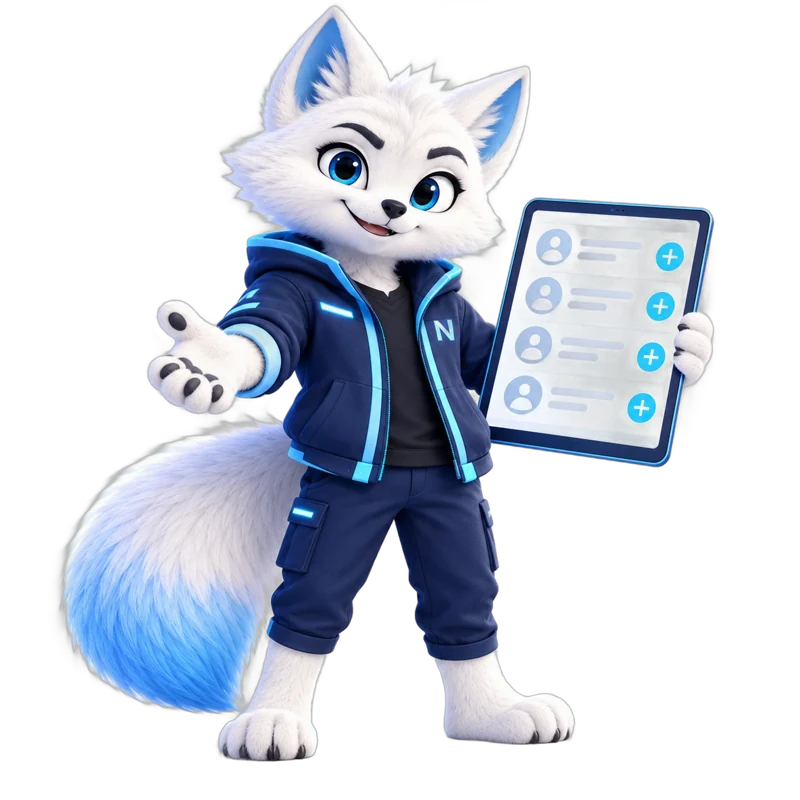
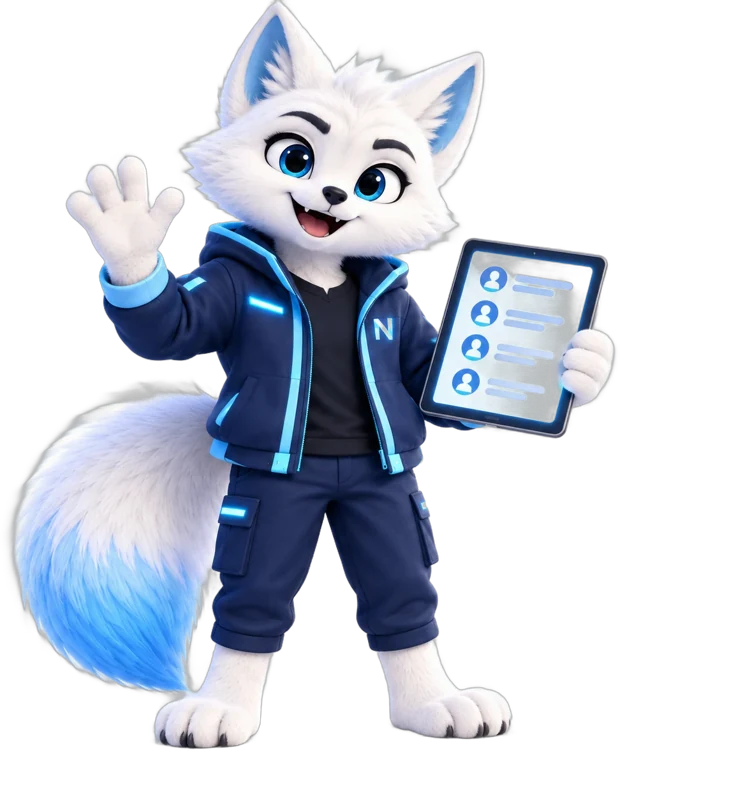
Play, Acervo, Design e Builder conforme capturas 16-19; mascote de Clientes
Claude-Session: https://claude.ai/code/session_0175EqgD9fGaqMxXcFMTC2sN

diff --git a/public/js/pages/library.js b/public/js/pages/library.js
@@ -1,5 +1,5 @@
 import { api } from '../api.js';
-import { h, mount, modal, confirmBox, fieldEl, readForm, toast, fail, debounce, copyText, downloadFile, pills, hero, statCard } from '../ui.js';
+import { h, mount, modal, confirmBox, fieldEl, readForm, toast, fail, debounce, copyText, downloadFile, pills, hero, statCard, icon } from '../ui.js';
 
 const KIND = { prompt: ['Prompt Lab', 'Prompts prontos para usar'], skill: ['Skill Vault', 'Métodos e instalação'], animation: ['Animações', 'Movimento para sites'], design: ['Design', 'Referências'] };
 const EXT = { prompt: 'txt', skill: 'md', animation: 'html', design: 'md' };
@@ -31,20 +31,29 @@ export const design = {
   async render(box, ctx) {
     const isAdmin = ctx.user.role === 'admin';
     const st = { q: '', niche: '', style: '', site_type: '', sort: 'title' };
-    const grid = h('div', { class: 'cards' }); const count = h('span', { class: 'sm mut' }); const filtersBox = h('div', { class: 'grid g3' });
-    const sel = (key, label, opts) => h('label', { class: 'field' }, h('span', label), h('select', { onchange: (e) => { st[key] = e.target.value; load(); } }, h('option', { value: '' }, 'Todos'), opts.map((o) => h('option', { value: o, selected: st[key] === o }, o))));
+    const grid = h('div', { class: 'cards' }); const count = h('b'); const filtersBox = h('div', { class: 'dfilters' }); const shortcuts = h('div', { class: 'shortcuts' });
+    let meta = { niches: [], styles: [], siteTypes: [] };
+    const sel = (key, label, ic, opts) => h('label', { class: 'dfield' }, icon(ic), h('span', label), h('select', { 'aria-label': label, onchange: (e) => { st[key] = e.target.value; load(); } }, h('option', { value: '' }, 'Todos'), opts.map((o) => h('option', { value: o, selected: st[key] === o }, o))));
+    function drawShortcuts() {
+      const quick = meta.niches.slice(0, 6);
+      mount(shortcuts, h('span', { class: 'k' }, 'Atalhos'), pills({ items: [['', 'Tudo'], ...quick.map((n) => [n, n])], value: st.niche, onChange: (v) => { st.niche = v; load(); } }),
+        h('button', { class: 'btn ghost sm', style: 'margin-left:auto', onclick: () => { Object.assign(st, { q: '', niche: '', style: '', site_type: '' }); design.render(box, ctx); } }, '✕ Limpar filtros'));
+    }
     async function load() {
-      const meta = await api.get('/library/meta', { kind: 'design' });
-      mount(filtersBox, sel('niche', 'Nicho', meta.niches), sel('style', 'Estilo visual', meta.styles), sel('site_type', 'Tipo de site', meta.siteTypes));
+      meta = await api.get('/library/meta', { kind: 'design' });
+      mount(filtersBox, sel('niche', 'Nicho', 'building', meta.niches), sel('style', 'Estilo visual', 'palette', meta.styles), sel('site_type', 'Tipo de site', 'layout', meta.siteTypes));
+      drawShortcuts();
       const { items } = await api.get('/library', { kind: 'design', q: st.q, niche: st.niche, style: st.style, site_type: st.site_type, sort: st.sort, all: isAdmin ? 1 : '' }); count.textContent = `${items.length} referência(s)`;
       mount(grid, items.length ? items.map((it) => h('article', { class: 'card refcard' + (it.locked ? ' lock' : ''), tabindex: 0, onclick: () => (it.locked ? toast('Recurso de um plano superior.', 'err') : openItem(it, ctx, load).catch(fail)) },
         h('div', { class: 'swatch' }, it.title), h('div', { class: 'row' }, it.niche && h('span', { class: 'badge' }, it.niche), it.style && h('span', { class: 'badge' }, it.style), it.locked && h('span', { class: 'badge warn' }, '🔒 plano superior'), !it.published && h('span', { class: 'badge warn' }, 'rascunho')),
-        h('p', { class: 'sm mut', style: 'margin:0' }, it.summary || ''))) : h('div', { class: 'card empty', style: 'grid-column:1/-1' }, h('b', 'Nenhuma referência encontrada'), isAdmin ? 'Cadastre referências com DESIGN.md em "+ Nova referência".' : 'Peça a um administrador para cadastrar referências.'));
+        h('p', { class: 'sm mut', style: 'margin:0' }, it.summary || ''))) : h('div', { class: 'emptyart dashed', style: 'grid-column:1/-1' }, h('span', { class: 'eico' }, icon('palette')), h('b', 'Nenhuma referência encontrada'), isAdmin ? 'Cadastre referências com DESIGN.md em "+ Nova referência".' : 'Peça a um administrador para cadastrar referências.'));
     }
-    mount(box, hero({ kicker: 'Neva Growth / Design', title: 'Identidades reais. DESIGN.md prontos.', subtitle: 'Explore referências, copie ou baixe o DESIGN.md e use como contexto no Builder e na IDE.',
+    const sortSel = h('select', { 'aria-label': 'Ordenar', style: 'width:auto', onchange: (e) => { st.sort = e.target.value; load(); } }, [['title', 'Nome: A → Z'], ['recent', 'Mais recentes']].map(([v, l]) => h('option', { value: v }, l)));
+    mount(box, hero({ kicker: 'Design Neva / Referências', title: 'Identidades reais. DESIGN.md prontos.', art: 'design', subtitle: 'Explore sites do mundo todo, encontre sua próxima referência e leve o DESIGN.md completo para o seu projeto.',
       actions: [isAdmin && h('button', { class: 'btn', onclick: () => itemForm(null, load, 'design') }, '+ Nova referência')] }),
-      h('div', { class: 'card pad stack' }, h('div', { class: 'row', style: 'justify-content:space-between' }, h('input', { type: 'search', style: 'max-width:380px', placeholder: 'Buscar referência, estilo ou categoria', 'aria-label': 'Buscar', oninput: debounce((e) => { st.q = e.target.value; load(); }) }), count), filtersBox,
-        h('button', { class: 'btn ghost sm', style: 'align-self:flex-start', onclick: () => { Object.assign(st, { q: '', niche: '', style: '', site_type: '' }); design.render(box, ctx); } }, 'Limpar filtros')), h('div', { style: 'height:14px' }), grid);
+      h('div', { class: 'dhead' }, h('span', { class: 'k' }, h('i', '/'), ' Explore por design'), h('div', { class: 'row' }, count, sortSel)),
+      h('div', { class: 'card pad stack' }, h('div', { class: 'ksearch', style: 'max-width:420px' }, icon('search'), h('input', { type: 'search', placeholder: 'Buscar referência, estilo ou categoria', 'aria-label': 'Buscar', oninput: debounce((e) => { st.q = e.target.value; load(); }) })), filtersBox, shortcuts),
+      h('div', { style: 'height:14px' }), grid);
     await load();
   }
 };
@@ -57,6 +66,7 @@ export const acervo = {
     async function load() {
       const meta = await api.get('/library/meta', { kind });
       const { items } = await api.get('/library', { kind, q: st.q, category: st.category, all: isAdmin ? 1 : '' });
+      total = items.filter((x) => x.published).length; try { drawHero(); } catch { /* ainda não montado */ } const c2 = document.getElementById('cnt2'); if (c2) c2.textContent = String(items.length).padStart(2, '0');
       mount(toolbar, h('div', { class: 'row' }, h('input', { type: 'search', style: 'max-width:340px', placeholder: 'Buscar por objetivo, área ou palavra-chave', 'aria-label': 'Buscar', value: st.q, oninput: debounce((e) => { st.q = e.target.value; load(); }) }),
         pills({ items: [['', 'Todos'], ...meta.categories.map((c) => [c, c])], value: st.category, onChange: (v) => { st.category = v; load(); } }), h('span', { class: 'sm mut' }, `${items.length} encontrado(s)`)));
       mount(listBox, items.length ? items.map((it, i) => h('button', { class: 'libitem' + (selected === it.id ? ' on' : '') + (it.locked ? ' lock' : ''), onclick: () => show(it) }, h('div', { class: 'sm mut' }, `${String(i + 1).padStart(2, '0')} · ${it.category || KIND[kind][0]}${it.locked ? ' · 🔒' : ''}${it.published ? '' : ' · rascunho'}`), h('div', { class: 't' }, it.title)))
@@ -72,11 +82,16 @@ export const acervo = {
           h('div', { class: 'row' }, h('button', { class: 'btn', onclick: () => copyText(full.content, 'Copiado.') }, 'Copiar'), h('button', { class: 'btn ghost', onclick: () => downloadFile(`${slug(full.title)}.${EXT[full.kind]}`, full.content) }, 'Baixar'), isAdmin && h('button', { class: 'btn ghost', onclick: () => itemForm(full, load) }, 'Editar'))));
       } catch (e) { mount(detail, h('div', { class: 'empty' }, e.message)); }
     }
-    const drawTabs = () => mount(tabs, h('div', { class: 'tabs' }, ['prompt', 'skill', 'animation'].map((k) => h('button', { class: kind === k ? 'on' : '', onclick: () => { kind = k; selected = null; st.category = ''; drawTabs(); load(); } }, KIND[k][0], h('span', { class: 'sm mut' }, ' · ' + KIND[k][1])))));
+    const TITLES = { prompt: ['Prompts para sair do rascunho.', 'Escolha um prompt completo, copie ou baixe e ajuste os detalhes no seu próprio chat.'], skill: ['Métodos prontos para instalar.', 'Guias e skills para repetir bons resultados com a sua IA, sem começar do zero.'], animation: ['Movimento para sites.', 'Animações em HTML e CSS para copiar, ajustar e colocar nos seus projetos.'] };
+    const heroBox = h('div'); let total = 0;
+    const drawHero = () => mount(heroBox, hero({ kicker: `Neva Growth / ${KIND[kind][0]}`, title: TITLES[kind][0], art: 'acervo', subtitle: TITLES[kind][1],
+      stats: h('div', { class: 'chips3' }, h('span', { class: 'chipk' }, icon('box'), `${total} recurso(s) publicado(s)`), h('span', { class: 'chipk' }, icon('check'), 'Texto completo'), h('span', { class: 'chipk' }, icon('refresh'), 'Sincronizado')),
+      actions: [isAdmin && h('button', { class: 'btn', onclick: () => itemForm(null, load, kind) }, '+ Novo recurso')] }));
+    const drawTabs = () => mount(tabs, h('div', { class: 'card acervobar' }, h('span', { class: 'ex' }, 'ACERVO NEVA'), h('div', { class: 'atabs' }, ['prompt', 'skill', 'animation'].map((k) => h('button', { class: kind === k ? 'on' : '', onclick: () => { kind = k; selected = null; st.category = ''; drawTabs(); load(); } }, h('b', KIND[k][0]), h('small', KIND[k][1])))),
+      h('a', { class: 'btn', href: '#/prompts' }, '✦ Gerar com IA')));
     drawTabs();
-    mount(box, hero({ kicker: 'Neva Growth / Acervo', title: 'Prompts para sair do rascunho.', subtitle: 'Escolha um recurso completo, copie ou baixe e ajuste no seu próprio chat. Para criar com IA, use o Gerador de prompts.',
-      actions: [h('a', { class: 'btn ghost', href: '#/prompts' }, '✦ Gerador de prompts'), isAdmin && h('button', { class: 'btn', onclick: () => itemForm(null, load, kind) }, '+ Novo recurso')] }),
-      tabs, h('div', { class: 'card pad stack', style: 'margin-bottom:14px' }, toolbar), h('div', { class: 'lib' }, h('div', { class: 'card', style: 'overflow:hidden' }, h('div', { class: 'pad', style: 'padding-bottom:6px' }, h('b', 'Explore')), listBox), h('div', { class: 'card' }, detail)));
+    mount(box, tabs, heroBox, h('div', { class: 'card pad stack', style: 'margin:14px 0' }, toolbar), h('div', { class: 'lib' }, h('div', { class: 'card', style: 'overflow:hidden' }, h('div', { class: 'pad libhead' }, h('div', h('div', { class: 'k' }, 'Neva / Biblioteca'), h('b', { style: 'font-size:1.2rem' }, 'Explore os recursos')), h('span', { class: 'cnt2', id: 'cnt2' }, '00')), listBox), h('div', { class: 'card' }, detail)));
+    drawHero();
     await load();
   }
 };

diff --git a/public/css/app.css b/public/css/app.css
@@ -352,3 +352,40 @@ select.monthsel{width:auto;min-width:110px;border-radius:12px;padding:7px 12px}
 .auth{display:grid;grid-template-columns:auto;grid-auto-flow:column;gap:48px;justify-content:center;align-items:center}
 .auth>.mascot-img{max-width:min(440px,42vw);margin:0}
 @media(max-width:860px){.auth{grid-auto-flow:row;gap:18px}.auth>.mascot-img{max-width:200px}}
+/* play, acervo, design, builder */
+.playband{display:flex;justify-content:space-between;align-items:center;gap:20px;flex-wrap:wrap;padding:20px 24px;margin-top:16px}
+.playband .k,.dhead .k,.libhead .k,.shortcuts .k{font-size:.66rem;letter-spacing:.16em;text-transform:uppercase;color:var(--ice-600);font-weight:700}
+.playband h2{font-size:1.8rem;margin-top:4px}
+.pb-r{display:flex;align-items:center;gap:20px;flex-wrap:wrap}.pb-p{display:flex;align-items:center;gap:12px;min-width:220px}.pb-p b{font-size:1.5rem}.pb-p .progress{flex:1;min-width:90px}
+.vcard .poster{height:130px;border-radius:14px;background:var(--grad);position:relative;display:grid;place-items:center;overflow:hidden;color:#fff}
+.vcard .poster::before{content:"";position:absolute;inset:0;background:repeating-linear-gradient(90deg,rgba(255,255,255,.07) 0 1px,transparent 1px 36px)}
+.vcard .poster b{position:absolute;left:14px;bottom:10px;font-size:.78rem;letter-spacing:.1em;text-transform:uppercase}
+.vcard .pbtn{width:48px;height:48px;border-radius:50%;background:rgba(255,255,255,.2);border:1px solid rgba(255,255,255,.6);display:grid;place-items:center;position:relative}.vcard .pbtn .ico{width:20px;height:20px;fill:#fff}
+.chips3{display:flex;gap:8px;flex-wrap:wrap}.chipk{display:inline-flex;align-items:center;gap:8px;border:1px solid rgba(255,255,255,.35);background:rgba(255,255,255,.12);border-radius:14px;padding:10px 16px;font-size:.85rem}
+.acervobar{display:flex;align-items:center;gap:18px;flex-wrap:wrap;padding:12px 16px;margin:8px 0 14px}
+.acervobar .ex{font-size:.7rem;letter-spacing:.18em;font-weight:700;color:var(--ice-700)}
+.atabs{display:flex;gap:6px;flex:1;flex-wrap:wrap}.atabs button{display:flex;flex-direction:column;align-items:flex-start;gap:0;border:1px solid transparent;background:none;border-radius:14px;padding:8px 16px;cursor:pointer;text-align:left}
+.atabs button small{color:var(--mut);font-size:.72rem}.atabs button.on{background:var(--grad);color:#fff;box-shadow:0 8px 18px rgba(47,123,189,.3)}.atabs button.on small{color:rgba(255,255,255,.85)}
+.libhead{display:flex;justify-content:space-between;align-items:center;border-bottom:1px solid var(--line)}.cnt2{border:1px solid var(--line);border-radius:10px;padding:4px 10px;font-weight:700;background:var(--ice-50)}
+.dhead{display:flex;justify-content:space-between;align-items:center;margin:18px 4px 10px;gap:10px;flex-wrap:wrap}.dhead .k i{font-style:normal;margin-right:6px}
+.dfilters{display:grid;grid-template-columns:repeat(3,minmax(0,1fr));border:1px solid var(--line);border-radius:14px;overflow:hidden}@media(max-width:760px){.dfilters{grid-template-columns:1fr}}
+.dfield{display:flex;align-items:center;gap:10px;padding:10px 16px;border-right:1px solid var(--line);color:var(--mut)}.dfield:last-child{border:0}
+.dfield select{border:0;box-shadow:none!important;padding:6px 4px;background:none;font-weight:600;color:var(--ink)}
+.shortcuts{display:flex;align-items:center;gap:12px;flex-wrap:wrap}
+.bstage{border-radius:28px;padding:22px clamp(16px,3vw,40px) 28px;background:radial-gradient(900px 400px at 50% -10%,#5aa3dc 0%,transparent 70%),linear-gradient(180deg,#1f5c92,#123b60);color:#fff;display:flex;flex-direction:column;gap:14px;align-items:center;position:relative;overflow:hidden}
+.btop{width:100%;display:flex;justify-content:space-between;align-items:center;font-size:.8rem}.btop a{color:#fff;text-decoration:none;opacity:.9}.btop .k{letter-spacing:.14em;text-transform:uppercase;font-weight:700;font-size:.68rem}.btop .k i{font-style:normal;color:#7fe0b0}
+.bstage .mascot-img{max-height:150px;width:auto;max-width:200px;filter:drop-shadow(0 10px 14px rgba(0,0,0,.35));margin:0}
+.bstage h1{color:#fff;font-size:clamp(1.6rem,4vw,2.6rem);text-align:center;letter-spacing:-.02em}
+.bstage .notice{width:100%;max-width:980px}.bstage>.sm{color:rgba(255,255,255,.8)}
+.composer{display:grid;grid-template-columns:minmax(0,1.3fr) minmax(0,1fr);gap:0;width:100%;max-width:1040px;background:#fff;color:var(--ink);border-radius:22px;overflow:hidden;box-shadow:0 24px 60px rgba(0,0,0,.3)}@media(max-width:900px){.composer{grid-template-columns:1fr}}
+.cleft{padding:16px;display:flex;flex-direction:column;gap:10px;border-right:1px solid var(--line);min-width:0}.cleft textarea{border:0;box-shadow:none!important;min-height:150px;font-size:1rem;resize:vertical}
+.cbar{display:flex;gap:8px;align-items:center;flex-wrap:wrap}
+.bicon{width:38px;height:38px;border-radius:12px;border:1px solid var(--line);background:#fff;display:grid;place-items:center;cursor:pointer}.bicon:hover{background:var(--ice-100)}
+.bdetails{border:1px solid var(--line);border-radius:14px;padding:12px;background:var(--ice-50)}
+.cright{padding:16px;background:var(--ice-50);display:flex;flex-direction:column;gap:12px}
+.bmodels{display:grid;grid-template-columns:repeat(2,minmax(0,1fr));gap:10px}
+.bmodel{border:2px solid transparent;border-radius:14px;padding:0;background:#fff;cursor:pointer;overflow:hidden;text-align:left;box-shadow:var(--shadow)}.bmodel.on{border-color:var(--ice-600)}
+.bmodel .th{height:78px;background:linear-gradient(135deg,var(--ice-100),var(--ice-400));position:relative}.bmodel .th i{position:absolute;left:10px;height:7px;border-radius:4px;background:rgba(255,255,255,.9)}
+.bmodel span{display:block;padding:8px 10px;font-weight:600;font-size:.82rem}
+.bpager{display:flex;justify-content:space-between;align-items:center}
+.btn.ghost[disabled],.iconbtn[disabled]{opacity:.4}

diff --git a/public/js/pages/play.js b/public/js/pages/play.js
@@ -1,5 +1,5 @@
 import { api } from '../api.js';
-import { h, mount, modal, confirmBox, fieldEl, readForm, toast, fail, hero, statCard, pills } from '../ui.js';
+import { h, mount, modal, confirmBox, fieldEl, readForm, toast, fail, hero, statCard, pills, icon } from '../ui.js';
 
 export function embedUrl(url) {
   try {
@@ -14,15 +14,17 @@ export function embedUrl(url) {
 export default {
   async render(box, ctx) {
     const isAdmin = ctx.user.role === 'admin'; let cat = '';
-    const grid = h('div', { class: 'cards' }); const statsBox = h('div', { class: 'hero-stats' }); const bar = h('div');
+    const grid = h('div', { class: 'cards playgrid', id: 'playgrid' }); const statsBox = h('div', { class: 'hero-stats' }); const bar = h('div'); const band = h('section', { class: 'card playband' });
     let data;
     async function load() { data = await api.get('/play', { all: isAdmin ? 1 : '' }); draw(); }
     function draw() {
       const s = data.stats;
-      mount(statsBox, statCard('Conteúdos vistos', `${s.percent}%`, `${s.seen} de ${s.total} conteúdo(s)`), h('div', { class: 'stat' }, h('small', 'Progresso'), h('div', { class: 'progress', style: 'margin-top:8px' }, h('i', { style: `width:${s.percent}%` }))));
+      mount(statsBox, h('div', { class: 'stat' }, h('span', { class: 'sico' }, icon('play')), h('div', { class: 'sbody', style: 'min-width:220px' }, h('small', 'Conteúdos vistos'), h('b', `${s.percent}%`), h('div', { class: 'progress', style: 'margin:6px 0 4px' }, h('i', { style: `width:${s.percent}%` })), h('span', { class: 'shint' }, `${s.seen} de ${s.total} conteúdo(s) visto(s)`))));
+      mount(band, h('div', { class: 'pb-l' }, h('div', { class: 'k' }, 'Conteúdo para explorar'), h('h2', 'Entre no Play.'), h('p', { class: 'sm mut', style: 'margin:4px 0 0' }, 'Crie melhor, venda com clareza e tome decisões mais inteligentes.')),
+        h('div', { class: 'pb-r' }, h('div', { class: 'pb-p' }, h('b', `${s.percent}%`), h('div', { class: 'progress' }, h('i', { style: `width:${s.percent}%` })), h('small', { class: 'mut' }, `${s.seen} de ${s.total} conteúdo(s)`)), h('button', { class: 'btn', onclick: () => document.getElementById('playgrid')?.scrollIntoView({ behavior: 'smooth' }) }, 'Explorar conteúdos →')));
       mount(bar, pills({ items: [['', 'Todos'], ...data.categories.map((c) => [c, c])], value: cat, onChange: (v) => { cat = v; draw(); } }));
       const items = data.items.filter((i) => !cat || i.category === cat);
-      mount(grid, items.length ? items.map((i) => h('article', { class: 'card pad stack' }, h('div', { class: 'row' }, i.category && h('span', { class: 'badge' }, i.category), i.seen ? h('span', { class: 'badge ok' }, '✓ visto') : null, !i.published && h('span', { class: 'badge warn' }, 'rascunho')),
+      mount(grid, items.length ? items.map((i) => h('article', { class: 'card pad stack vcard' }, h('div', { class: 'poster' }, h('span', { class: 'pbtn' }, icon('play')), h('b', i.category || 'Play')), h('div', { class: 'row' }, i.category && h('span', { class: 'badge' }, i.category), i.seen ? h('span', { class: 'badge ok' }, '✓ visto') : null, !i.published && h('span', { class: 'badge warn' }, 'rascunho')),
         h('h2', i.title), h('p', { class: 'mut sm', style: 'margin:0' }, i.description || ''),
         h('div', { class: 'row' }, h('button', { class: 'btn', onclick: () => watch(i) }, 'Assistir'), isAdmin && h('button', { class: 'btn ghost sm', onclick: () => edit(i) }, 'Editar'))))
         : h('div', { class: 'card empty', style: 'grid-column:1/-1' }, h('b', 'Nenhum conteúdo ainda'), isAdmin ? 'Cadastre vídeos em "+ Novo conteúdo".' : 'Em breve.'));
@@ -39,8 +41,8 @@ export default {
       modal({ title: rec ? 'Editar conteúdo' : 'Novo conteúdo', size: 'lg', body: f, actions: [rec && { label: 'Excluir', kind: 'danger', keepOpen: true, onClick: async (close) => { if (!(await confirmBox(`Excluir "${rec.title}"?`))) return false; await api.del('/play/' + rec.id); close(); load(); } },
         { label: 'Cancelar', kind: 'ghost' }, { label: 'Salvar', keepOpen: true, onClick: async (close) => { if (!f.reportValidity()) return false; const d = readForm(f, defs); if (rec) await api.put('/play/' + rec.id, d); else await api.post('/play', d); toast('Conteúdo salvo.', 'ok'); close(); load(); } }].filter(Boolean) });
     }
-    mount(box, hero({ kicker: 'Neva Growth / Play', title: 'Conhecimento para criar sem parar.', subtitle: 'Vídeos, análises e práticas. Explore no seu ritmo, sem etapas obrigatórias.', actions: [isAdmin && h('button', { class: 'btn', onclick: () => edit(null) }, '+ Novo conteúdo')], stats: statsBox }),
-      h('div', { class: 'card pad', style: 'margin-bottom:14px' }, bar), grid);
+    mount(box, hero({ kicker: 'Neva Growth / Play', title: 'Conhecimento para criar sem parar.', art: 'play', subtitle: 'Vídeos, análises e práticas para criar melhor. Explore os assuntos no seu ritmo, sem etapas obrigatórias.', actions: [isAdmin && h('button', { class: 'btn', onclick: () => edit(null) }, '+ Novo conteúdo')], stats: statsBox }),
+      band, h('div', { class: 'card pad', style: 'margin:14px 0' }, bar), grid);
     await load();
   }
 };

diff --git a/public/js/pages/builder.js b/public/js/pages/builder.js
@@ -1,5 +1,5 @@
 import { api } from '../api.js';
-import { h, mount, toast, fail, fieldEl } from '../ui.js';
+import { h, mount, toast, fail, fieldEl, icon, mascotImg } from '../ui.js';
 
 const TEMPLATES = [
   { id: 'inst', title: 'Site institucional', desc: 'Apresentação da empresa com benefícios, serviços, depoimentos e contato.', kind: 'site', sections: ['beneficios', 'servicos', 'depoimentos', 'contato'] },
@@ -40,10 +40,30 @@ export default {
       if (!form.reportValidity()) return;
       try { const p = await api.post('/projects', { name: name(), kind: tpl.kind, color: form.color.value, sections: tpl.sections, tagline: brief.value.trim().split('\n')[0].slice(0, 90) || name(), description: brief.value.slice(0, 300) });
         location.hash = '#/ide/' + p.id; } catch (e) { fail(e); } } }, 'Criar a partir do modelo');
+    // detalhes do projeto (nome, tipo, cor, estilo, referência) ficam recolhidos sob o botão "+"
+    const details = h('div', { class: 'bdetails hide' }, form);
+    const toggleDetails = () => details.classList.toggle('hide');
+    const colorBtn = h('button', { type: 'button', class: 'bicon', title: 'Escolher a cor principal', 'aria-label': 'Escolher a cor principal', onclick: () => { details.classList.remove('hide'); form.color.focus(); form.color.click?.(); } }, icon('palette'));
+    const plusBtn = h('button', { type: 'button', class: 'bicon', title: 'Detalhes do projeto: nome, tipo, estilo e referência', 'aria-label': 'Detalhes do projeto', onclick: toggleDetails }, icon('plus'));
+    // modelos: 4 por página, setas reais
+    let page = 0; const PER = 4; const models = h('div', { class: 'bmodels' }); const pager = h('div', { class: 'bpager' });
+    const drawModels = () => {
+      const pages = Math.ceil(TEMPLATES.length / PER);
+      mount(models, TEMPLATES.slice(page * PER, page * PER + PER).map((t) => h('button', { type: 'button', class: 'bmodel' + (tpl.id === t.id ? ' on' : ''), onclick: () => { tpl = t; form.kind.value = t.kind; drawModels(); drawGal(); } }, thumb(t), h('span', t.title))));
+      mount(pager, h('button', { type: 'button', class: 'btn ghost sm', onclick: () => { page = 0; drawModels(); document.getElementById('allmodels')?.scrollIntoView({ behavior: 'smooth' }); } }, 'Ver todos os modelos →'),
+        h('span', { class: 'row' }, h('button', { type: 'button', class: 'iconbtn', 'aria-label': 'Modelos anteriores', disabled: page === 0, onclick: () => { page--; drawModels(); } }, '‹'), h('button', { type: 'button', class: 'iconbtn', 'aria-label': 'Próximos modelos', disabled: page >= pages - 1, onclick: () => { page++; drawModels(); } }, '›')));
+    };
+    drawModels();
     mount(box, h('div', { class: 'builder stack' },
-      h('div', { style: 'text-align:center;padding:12px 0' }, h('div', { class: 'kicker' }, 'Builder de sites'), h('h1', { style: 'font-size:clamp(1.6rem,4vw,2.4rem)' }, `O que vamos criar, ${ctx.user.name.split(' ')[0]}?`)),
-      !aiOn && h('div', { class: 'notice' }, `Geração com IA indisponível: defina ${st.ai.envVar} no servidor. Os modelos prontos abaixo funcionam sem IA.`),
-      h('div', { class: 'card pad stack' }, brief, form, h('div', { class: 'row', style: 'justify-content:space-between' }, quota, h('div', { class: 'row' }, btnOpt, btnTpl, btnAi))),
-      h('h2', 'Modelos iniciais'), gal, h('p', { class: 'sm mut' }, 'Os modelos são originais da Neva Growth e geram HTML/CSS/JS editáveis na IDE.')));
+      h('div', { class: 'bstage' },
+        h('div', { class: 'btop' }, h('a', { href: '#/sites' }, '← Voltar aos sites'), h('span', { class: 'k' }, h('i', '●'), ' Builder de sites')),
+        mascotImg('dashboard'),
+        h('h1', `O que vamos criar, ${ctx.user.name.split(' ')[0]}?`),
+        !aiOn && h('div', { class: 'notice' }, `Geração com IA indisponível: defina ${st.ai.envVar} no servidor. Os modelos prontos abaixo funcionam sem IA.`),
+        h('div', { class: 'composer' },
+          h('div', { class: 'cleft' }, brief, details, h('div', { class: 'cbar' }, plusBtn, btnOpt, h('span', { class: 'grow' }), colorBtn, btnTpl, btnAi)),
+          h('div', { class: 'cright' }, models, pager)),
+        quota),
+      h('h2', { id: 'allmodels' }, 'Modelos iniciais'), gal, h('p', { class: 'sm mut' }, 'Os modelos são originais da Neva Growth e geram HTML/CSS/JS editáveis na IDE.')));
   }
 };

diff --git a/public/js/app.js b/public/js/app.js
@@ -17,13 +17,13 @@ const ROUTES = [
   { path: 'produtos', label: 'Produtos', icon: 'tag', page: lazy('./pages/resources.js', 'products') },
   { sec: 'Criação' },
   { path: 'sites', search: 'Buscar site, domínio ou cliente', label: 'Sites e sistemas', icon: 'globe', page: lazy('./pages/sites.js') },
-  { path: 'builder', label: 'Builder com IA', icon: 'sparkle', page: lazy('./pages/builder.js') },
+  { path: 'builder', search: 'Buscar site, modelo ou projeto', label: 'Builder com IA', icon: 'sparkle', page: lazy('./pages/builder.js') },
   { path: 'ide/:id', hidden: true, wide: true, page: lazy('./pages/ide.js') },
-  { path: 'design', label: 'Referências de design', icon: 'palette', page: lazy('./pages/library.js', 'design') },
-  { path: 'acervo', label: 'Acervo', icon: 'box', page: lazy('./pages/library.js', 'acervo') },
+  { path: 'design', search: 'Buscar referência, estilo ou categoria', label: 'Referências de design', icon: 'palette', page: lazy('./pages/library.js', 'design') },
+  { path: 'acervo', search: 'Buscar recurso, prompt ou animação', label: 'Acervo', icon: 'box', page: lazy('./pages/library.js', 'acervo') },
   { path: 'prompts', label: 'Gerador de prompts', icon: 'wand', page: lazy('./pages/promptgen.js') },
   { sec: 'Aprender' },
-  { path: 'play', label: 'Play', icon: 'play', page: lazy('./pages/play.js') },
+  { path: 'play', search: 'Buscar conteúdo', label: 'Play', icon: 'play', page: lazy('./pages/play.js') },
   { path: 'cursos', label: 'Academia', icon: 'book', page: lazy('./pages/courses.js') },
   { sec: 'Conta' },
   { path: 'associacao', label: 'Associação', icon: 'card', page: lazy('./pages/membership.js') },

diff --git a/public/js/ui.js b/public/js/ui.js
@@ -150,7 +150,7 @@ export function mascotImg(name, framed = false) {
   img.addEventListener('error', () => img.remove());
   return img;
 }
-const MASCOT = { chart: 'vendas', people: 'clientes', site: 'sites', kanban: 'crm', dashboard: 'dashboard' };
+const MASCOT = { chart: 'vendas', people: 'clientes', site: 'sites', kanban: 'crm', dashboard: 'dashboard', play: 'dashboard', acervo: 'clientes', design: 'design' };
 export function heroArt(kind = 'chart') {
   const shape = drawShape(kind);
   if (!MASCOT[kind]) return shape;

diff --git a/docs/IMPLEMENTACAO.md b/docs/IMPLEMENTACAO.md
@@ -62,6 +62,8 @@ Nada abaixo usa dados fictícios: indicadores vêm do banco; o conteúdo inicial
 | CRM Kanban: faixa de etapas, Editar funil/Importar/Nova oportunidade, abas, Arquivados com contagem, quadro/lista, busca, Filtros, exportação, colunas com valor previsto e "Adicionar oportunidade" | Testado (e2e) |
 | Clientes (carteira com abas), Vendas (barra "Organizar projetos" com resumo), Sites (barra "Exibir", cota do Builder, contador) | Testado (e2e) |
 
+| Mascote da Neva (raposa) nas aberturas, estados vazios, login e erros; Play (faixa "Entre no Play"), Acervo (barra de abas e chips), Design (filtros e atalhos) e Builder (compositor com modelos paginados), capturas 16–19 | Testado (e2e) |
+
 Decisão registrada: layout, estrutura e fluxos seguem os prints; a identidade visual (azul-gelo, logo "N", ilustrações) é própria da Neva. Não foram copiados logo, mascote, arte nem a paleta vermelha do sistema de referência. O indicador "AO VIVO" do original aparece como "Sincronizado hh:mm" porque não há tempo real (atualização a cada 30 s).
 
 ## Deploy

diff --git a/docs/MASCOTE_PROMPTS.md b/docs/MASCOTE_PROMPTS.md
@@ -57,7 +57,7 @@ Cada arquivo entra no bloco de abertura da tela correspondente (no lugar da ilus
 |---|---|---|
 | 00 | folha | Recebida |
 | 01 | dashboard | Em uso (card "Sua próxima venda") |
-| 02 | clientes | Em uso provisório: a pose do tablet com contatos (a mesma do 09). A pose acenando foi enviada na conversa, mas o arquivo não chegou ao servidor; reenviar para trocar |
+| 02 | clientes | Em uso (raposa acenando com o tablet de contatos), abertura de Clientes |
 | 03 | vendas | Em uso |
 | 04 | sites | Em uso |
 | 05 | crm | Em uso |
